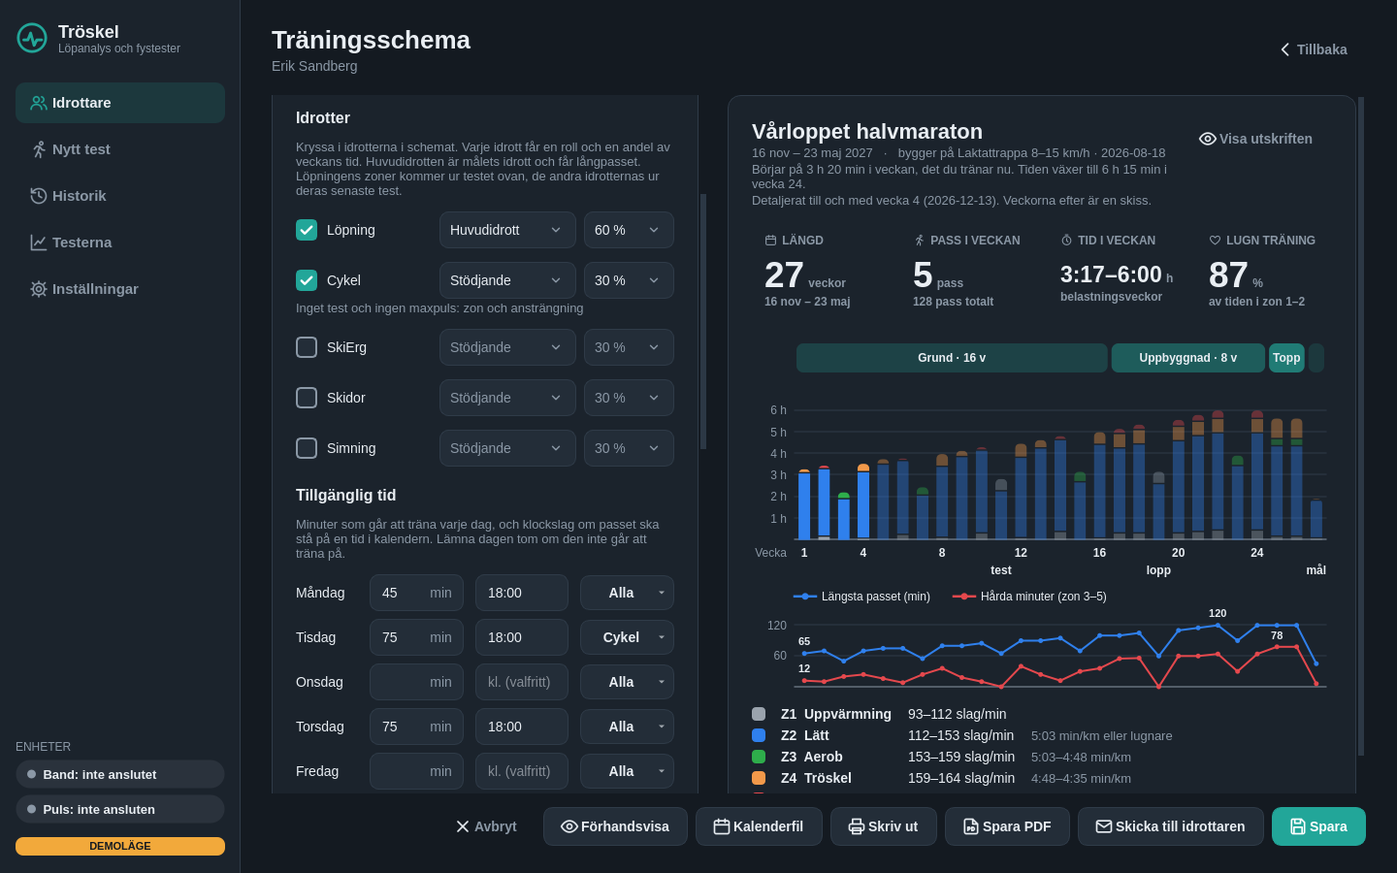
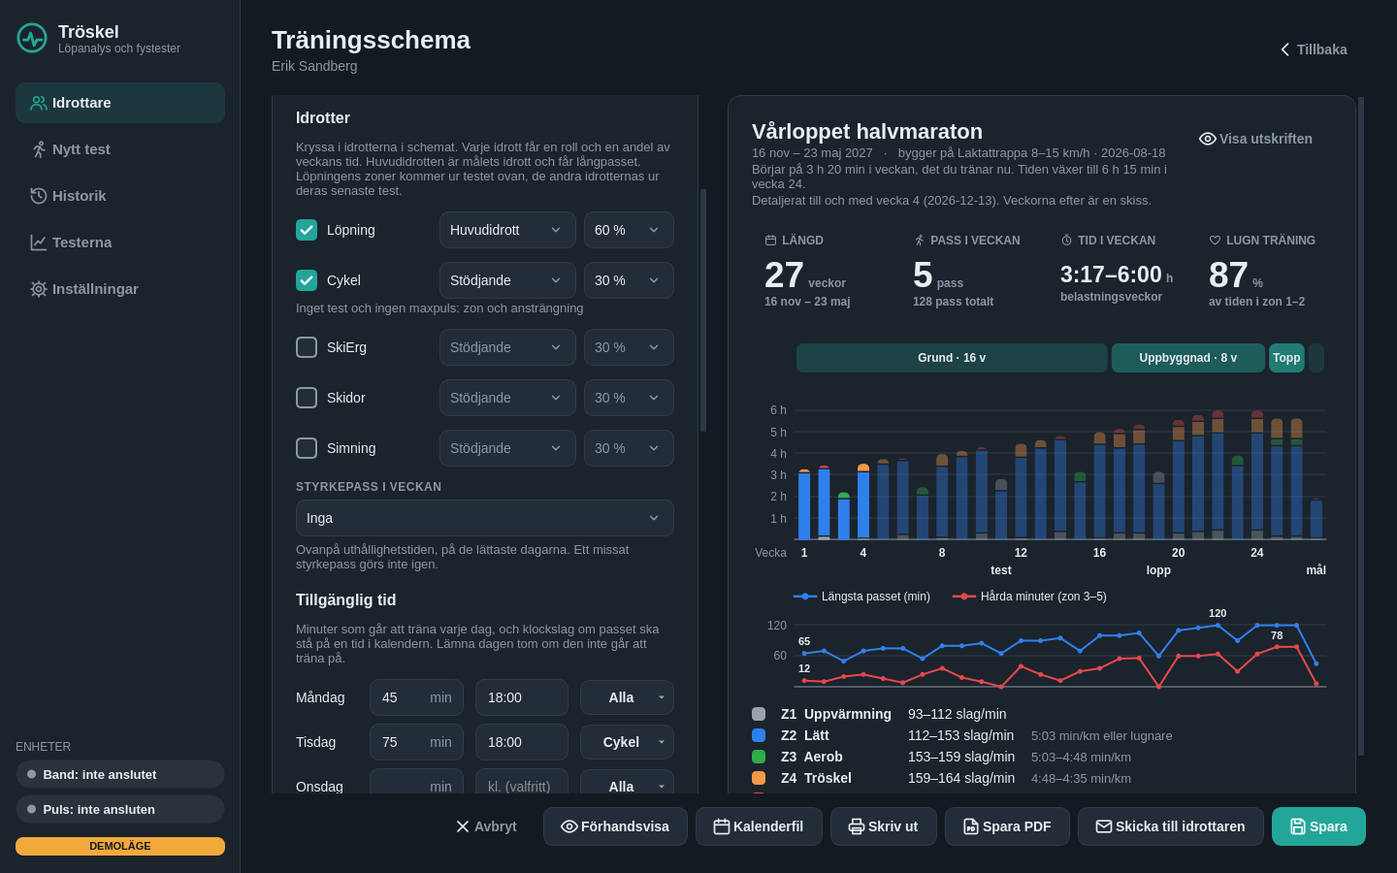
Plan: strength sessions in the form, strength and swimming in the printout, titles with the sport (#666, steps 3-4)
The form asks for the strength sessions a week (none or 1-3, PlanRequest.strength_sessions), saved with
the plan and read back. The printout takes each workout's title from Plan.title, so in a plan with
several sports or with strength every workout starts with its sport. The sports table ends with
strength and its number of sessions; strength workouts are shown without zones, with the effort, in
strength's colour. Swimming with a CSS test is listed with the test and gets a row with the time per
100 m under *Dina zoner*. The handbook, TRANINGSPLAN.md, PROV.md and the screenshots follow.

diff --git a/src/lopanalys/report/plan_builder.py b/src/lopanalys/report/plan_builder.py
@@ -21,9 +21,9 @@ from markupsafe import Markup
 from lopanalys.core.i18n import language, set_language, t
 from lopanalys.core.zone_colors import sport_color, zone_color
 from lopanalys.plan import library
-from lopanalys.plan.models import BORROWS, WEEKDAY_KEYS, ZONES, Capacity, Plan, Week
+from lopanalys.plan.models import BORROWS, STRENGTH, SWIM, WEEKDAY_KEYS, ZONES, Capacity, Plan, Week
 from lopanalys.plan.periodize import core_slots
-from lopanalys.plan.resolve import SPLIT_SPORTS, split_str, targets
+from lopanalys.plan.resolve import SPLIT_SPORTS, split_str, swim_str, targets
 from lopanalys.plan.text import duration, hours, progress_axis, volume_start, workout_lines
 
 from .builder import ASSETS, Branding, _css_str, _data_uri_image, _env, _footer_line, _safe_color, date_long
@@ -210,6 +210,8 @@ def _sport_name(sport: str) -> str:
 
 def _basis(cap: Capacity) -> str:
     """'Laktattrappa · 13 november 2026', with the marks for estimated zones; 'Inget test' without one."""
+    if cap.anchors is None and cap.css_s100:          # swimming's CSS test: a pace, no heart rate
+        return " · ".join(x for x in (cap.source, date_long(cap.tested) if cap.tested else "") if x)
     if cap.anchors is None:
         return t("plan.pdf.fact.no_test")
     basis = " · ".join(x for x in (cap.source, date_long(cap.tested) if cap.tested else "") if x) \
@@ -233,18 +235,23 @@ def _sports(plan: Plan) -> list[dict[str, Any]]:
         lent = req.own_capacity(BORROWS[r.sport]) if r.sport in BORROWS else None
         if own is None and lent is not None and lent.anchors is not None:
             basis = t("report.plan.sports.borrows", sport=_sport_name(BORROWS[r.sport]))
-        elif own is None and r.sport == "swim":
+        elif (own is None or not own.known) and r.sport == SWIM:
             basis = t("report.plan.sports.effort")
         else:
             basis = _basis(req.capacity_for(r.sport))
         out.append({"sport": r.sport, "name": _sport_name(r.sport), "color": sport_color(r.sport),
-                    "role": t(f"report.plan.role.{r.role}"), "share": round(100 * r.weight / total), "basis": basis})
+                    "role": t(f"report.plan.role.{r.role}"), "share": f"{round(100 * r.weight / total)} %",
+                    "basis": basis})
+    if req.strength_count:          # outside the shares: a number of sessions on top of the endurance time
+        out.append({"sport": STRENGTH, "name": _sport_name(STRENGTH), "color": sport_color(STRENGTH),
+                    "role": t("report.plan.sports.strength_role", n=req.strength_count), "share": "–",
+                    "basis": t("report.plan.sports.strength_basis")})
     return out
 
 
 def _sport_zones(plan: Plan) -> list[dict[str, Any]]:
     """The other sports' rows under *Dina zoner*: the sports whose test gives watt (the bike; the SkiErg
-    also the time per 500 m), zone by zone."""
+    also the time per 500 m) and swimming with a CSS test (the time per 100 m), zone by zone."""
     req = plan.request
     out = []
     for sp in req.plan_sports:
@@ -252,7 +259,7 @@ def _sport_zones(plan: Plan) -> list[dict[str, Any]]:
             continue
         cap = req.own_capacity(sp)
         zt = targets(cap, plan.zone_system, sp) if cap is not None else {}
-        if not any(z.power_text for z in zt.values()):
+        if not any(z.power_text or (sp == SWIM and z.pace_text) for z in zt.values()):
             continue
         out.append({"name": _sport_name(sp), "color": sport_color(sp),
                     "cells": [_compact(zt[z]) if z in zt else {"hr": "", "load": ""} for z in ZONES]})
@@ -274,6 +281,9 @@ def _compact(tg: Any) -> dict[str, str]:
     hr = _ends(str(tg.hr_low or ""), str(tg.hr_high or ""))
     watt = _ends(str(tg.power_low_w or ""), str(tg.power_high_w or ""))
     split = _ends(split_str(tg.power_low_w), split_str(tg.power_high_w), True) if tg.sport in SPLIT_SPORTS else ""
+    if tg.sport == SWIM:
+        swim = _ends(swim_str(tg.swim_low_s), swim_str(tg.swim_high_s), True)
+        split = f"{swim} /100 m" if swim else ""
     load = " · ".join(x for x in (f"{watt} W" if watt else "", split) if x)
     return {"hr": hr, "load": load}
 
@@ -303,7 +313,7 @@ def _context(plan: Plan, branding: Branding) -> dict[str, Any]:
 
     # ---- cover
     period = {"k": t("plan.pdf.fact.period"), "v": f"{date_long(plan.start)} – {date_long(plan.end)}"}
-    multi = len(req.plan_roles()) > 1
+    multi = req.multi_sport
     if cap.anchors is None:
         basis = t("plan.pdf.fact.no_test")
     else:
@@ -380,7 +390,7 @@ def _context(plan: Plan, branding: Branding) -> dict[str, Any]:
                     line["color"] = zone_color(ZONES.index(line["zone"])) if line["zone"] else UNZONED
                 race = " · ".join(x for x in (t("plan.goal.distance", km=fmt_num(w.goal.distance_km, 1 if w.goal.distance_km % 1 else 0))
                                               if w.goal.distance_km else "", w.goal.target) if x) if w.goal else ""
-                items.append({"title": w.title, "purpose": (race or w.purpose),
+                items.append({"title": plan.title(w), "purpose": (race or w.purpose),
                               "duration": duration(w.seconds) if w.seconds else "", "lines": lines,
                               "start": f"{w.start:%H:%M}" if w.start else "", "race": bool(w.goal),
                               "quality": w.quality, "sport": _sport_name(w.sport) if multi else "",

diff --git a/src/lopanalys/ui/views/plan.py b/src/lopanalys/ui/views/plan.py
@@ -13,7 +13,8 @@ what is saved without filling in anything; the banner offers it when they run ou
 Several sports (#666, step 4): the coach ticks the plan's sports, each with a role (main, supporting,
 maintenance) and a share of the weekly time in tens of percent, 60/30/10 by default. Running's zones come
 from the chosen test; every other sport takes its own newest test (services.sport_capacity). A weekday can
-allow some of the sports only: the button beside the day says which, *Alla* by default.
+allow some of the sports only: the button beside the day says which, *Alla* by default. Strength is a number of
+sessions a week (0-3) on top of the endurance time, placed by the engine.
 
 The form follows the athlete form: fields start empty, *Spara* is always visible below the
 scroll area, and unsaved changes are asked about before they are thrown away.
@@ -36,7 +37,7 @@ from lopanalys.core.models import Athlete
 from lopanalys.plan import RUNNING, Capacity, Goal, Plan, PlanRequest, Slot, SportRole, build_plan
 from lopanalys.plan import rolling
 from lopanalys.plan.engine import horizon_for
-from lopanalys.plan.models import BORROWS, LEVELS, PLAN_SPORTS, ROLE_SHARE, ROLES, WEEKDAY_KEYS, ZONES
+from lopanalys.plan.models import BORROWS, LEVELS, MAX_STRENGTH, PLAN_SPORTS, ROLE_SHARE, ROLES, WEEKDAY_KEYS, ZONES
 from lopanalys.plan.resolve import targets
 from lopanalys.plan.text import hours, start_line
 from lopanalys.ui import services, theme
@@ -376,6 +377,11 @@ class PlanView(QWidget):
             r.made_main.connect(self._new_main)
             self.sport_rows[sp] = r
             v.addWidget(r)
+        self.strength = QComboBox()
+        self.strength.setObjectName("strength_sessions")
+        for n in range(MAX_STRENGTH + 1):
+            self.strength.addItem(t("ui.plan.strength_none") if n == 0 else t("ui.plan.strength_n", n=n), n)
+        v.addWidget(field(t("ui.plan.strength"), self.strength, t("ui.plan.strength_hint")))
 
         v.addSpacing(6)
         v.addWidget(label(t("ui.plan.sec.time"), "SectionTitle"))
@@ -466,7 +472,7 @@ class PlanView(QWidget):
         for w in (self.recent, self.goal_name, self.goal_date.edit, self.goal_km, self.goal_target, self.weeks,
                   self.start.edit, *self.minutes, *self.clocks):
             w.textChanged.connect(self._changed)
-        for cb in (self.test, self.level):
+        for cb in (self.test, self.level, self.strength):
             cb.currentIndexChanged.connect(self._changed)
         self.mode.currentIndexChanged.connect(self._mode_changed)
 
@@ -533,7 +539,7 @@ class PlanView(QWidget):
     def _inputs(self) -> tuple:
         """Everything the plan is built from. Two equal tuples give the same plan."""
         return (self.test.currentData(), self.level.currentData(), self.recent.value(),
-                tuple(r.snapshot() for r in self.sport_rows.values()),
+                tuple(r.snapshot() for r in self.sport_rows.values()), self.strength.currentData(),
                 tuple((m.value(), c.text().strip(), d.chosen()) for m, c, d in zip(self.minutes, self.clocks,
                                                                                   self.day_sports)),
                 self.mode.currentData(), self.goal_name.text().strip(), self.goal_date.text().strip(),
@@ -676,6 +682,7 @@ class PlanView(QWidget):
             row.set(r.role if r else "support", r.share if r else 0, r is not None)
         for d in self.day_sports:
             d.set_chosen(())
+        self.strength.setCurrentIndex(max(0, self.strength.findData(req.strength_count if req else 0)))
         self._sport_basis()
         if req is None:
             self.test.setCurrentIndex(max(0, self.test.findData(session_id)) if session_id else 0)
@@ -901,7 +908,8 @@ class PlanView(QWidget):
         roles = tuple(self.sport_rows[sp].value() for sp in sports)
         return PlanRequest(a.name, start_day, tuple(slots), tuple(caps), sports, goals=tuple(goals),
                            duration_weeks=weeks, level=level, recent_weekly_minutes=int(recent) if recent else None,
-                           roles=roles if len(roles) > 1 or roles[0].sport != RUNNING else ())
+                           roles=roles if len(roles) > 1 or roles[0].sport != RUNNING else (),
+                           strength_sessions=self.strength.currentData() or 0)
 
     def _session_id(self) -> int | None:
         """The running test the plan is built on; none when running is not in the plan."""

diff --git a/tests/report/test_report_plan_sports.py b/tests/report/test_report_plan_sports.py
@@ -154,3 +154,45 @@ def test_english_sports_table(plans):
     text = _text(_cover(render_plan_html(plans["ski_main"])))
     assert "Main sport" in text and "Supporting" in text and "Maintenance" in text
     assert "Borrows the zones of SkiErg" in text
+
+
+# ---- strength and swimming (#666, step 3) in the printout
+
+
+def test_titles_start_with_the_sport_in_a_plan_with_several(plans):
+    week = render_plan_html(plans["run_bike_12"])
+    week = _text(week[week.index('<section class="week">'):])
+    assert "Löpning: " in week and "Cykel: " in week
+    one = render_plan_html(plans["half_12"])
+    assert "Löpning: " not in _text(one[one.index('<section class="week">'):])
+
+
+def test_strength_sessions_in_the_table_and_on_the_week_page():
+    plan = build_plan(c.CASES["run_strength_2"])
+    html = render_plan_html(plan)
+    cover = _text(_cover(html))
+    assert "Löpning Huvudidrott 100 %" in cover
+    assert "Styrka 2 pass i veckan – Utan zoner: upplevd ansträngning, ovanpå uthållighetstiden" in cover
+    week = plan.weeks[0]
+    strength = [w for w in week.workouts if w.strength]
+    assert len(strength) == 2
+    first = _text(html)
+    first = first[first.index("Vecka 1 "):first.index("Vecka 2 ")]
+    for w in strength:
+        assert plan.title(w) in first and plan.title(w).startswith("Styrka: ")
+    assert "Styrka" in first[first.index("Veckans tid per idrott"):]
+    assert f'<i style="background: {sport_color("strength")}">' in html
+    assert f"Belastning {round(week.load)} " in first
+
+
+def test_swimming_with_a_css_test_gives_the_time_per_100_m():
+    plan = build_plan(c.CASES["triathlon_swim"])
+    html = render_plan_html(plan)
+    cover = _text(_cover(html))
+    assert "Simning Stödjande 25 % CSS-test · 10 november 2026" in cover
+    zones = cover[cover.index("Dina zoner"):]
+    swim = zones[zones.index("Simning"):]
+    assert "/100 m" in swim and "2:10–2:02 /100 m" in swim       # Z2: CSS 1:55 + 15 s to + 7 s
+    assert "> 2:10 /100 m" in swim                                # Z1: slower than CSS + 15 s
+    week = _text(html[html.index('<section class="week">'):])
+    assert "/100 m" in week and "Simning: " in week

diff --git a/tests/ui/test_plan_sports.py b/tests/ui/test_plan_sports.py
@@ -99,6 +99,7 @@ def test_a_day_with_some_sports_only_is_saved_and_read_back(demo_window, erik):
     assert v.sport_rows["swim"].snapshot() == (True, "maintenance", 10)
     assert v.sport_rows["bike"].snapshot() == (True, "support", 30) and not v.sport_rows["ski"].on
     assert v.day_sports[1].chosen() == ("bike",) and v.day_sports[0].chosen() == ()
+    assert v.strength.currentData() == 0
     assert not v.dirty() and v.plan.request.roles == req.roles
     # a change in the sports is a change of the form
     _tick(v, "swim", False)
@@ -172,3 +173,24 @@ def test_sport_capacity_takes_the_sport_s_own_test_or_max_hr(demo_window, erik):
     run = services.sport_capacity(store, erik, RUNNING)
     newest = services.plan_tests(store, erik.id)[0]
     assert run == services.plan_capacity(store, erik, newest)
+
+
+def test_strength_sessions_are_asked_saved_and_read_back(demo_window, erik):
+    win = demo_window
+    win.open_plan(erik)
+    v = win.plan
+    _fill(v)
+    for h in v.health.values():
+        h.setChecked(True)
+    assert [v.strength.itemData(i) for i in range(v.strength.count())] == [0, 1, 2, 3]
+    assert v.strength.currentData() == 0 and v.strength.currentText() == "Inga"
+    v.strength.setCurrentIndex(v.strength.findData(2))
+    req = v.collect()
+    assert req.strength_sessions == 2 and req.roles == () and req.multi_sport
+    assert v.preview() and sum(wk.strength_sessions for wk in v.plan.detailed_weeks) > 0
+    assert v.save() and not v.dirty()
+    win._plan_back()
+    win.open_plan(erik)
+    assert v.strength.currentData() == 2 and not v.dirty()
+    v.strength.setCurrentIndex(v.strength.findData(0))
+    assert v.dirty()

diff --git a/docs/TRANINGSPLAN.md b/docs/TRANINGSPLAN.md
@@ -1,6 +1,6 @@
 # Träningsplanen
 
-*Hur programmet bygger ett träningsschema på testerna: datamodellen, planmotorn, säkerheten och utskriften. Planmotorn, utskriften, kalenderfilen, lagringen och sidan *Träningsschema* i programmet är byggda (se [Nuläget](#nuläget-vad-som-är-byggt)). Motorn fyller flera idrotter med varje idrotts egna pass, styrka och simning med ett manuellt simtest; formuläret och utskriften har idrotterna, men antalet styrkepass och simtestet finns inte i formuläret än. Målet är ett komplett test- och träningsprogram där idrottaren vet vad varje pass ska innehålla, och där träningen är skräddarsydd efter idrottarens kapacitet och mål.*
+*Hur programmet bygger ett träningsschema på testerna: datamodellen, planmotorn, säkerheten och utskriften. Planmotorn, utskriften, kalenderfilen, lagringen och sidan *Träningsschema* i programmet är byggda (se [Nuläget](#nuläget-vad-som-är-byggt)). Motorn fyller flera idrotter med varje idrotts egna pass, styrka och simning med ett manuellt simtest; formuläret och utskriften har idrotterna och antalet styrkepass, men simtestet går inte att göra i programmet än. Målet är ett komplett test- och träningsprogram där idrottaren vet vad varje pass ska innehålla, och där träningen är skräddarsydd efter idrottarens kapacitet och mål.*
 
 Allt som är märkt *(ej verifierat)* är skrivet ur minnet.
 
@@ -56,7 +56,7 @@ Kommandot gör ett schema för demolöparen (aldrig en riktig person): PDF, kale
 | Ombyggnad av resten av planen (nya pass och ny volym) efter ett omtest, sjukdom och missade pass | Inte byggt (resten av steg P4) |
 | Flera idrotter: veckotiden fördelad efter andelar, hårda dagar och långpass över idrotterna, platser med flera idrotter | Byggt (steg 1 av 4), se [Flera idrotter](#flera-idrotter) |
 | Cykelns och SkiErgens egna pass med mål i watt och tid per 500 m | Byggt (steg 2 av 4) |
-| Styrka (0–3 pass i veckan ovanpå uthållighetsveckan) och simning på ansträngning eller på ett manuellt CSS-test | Byggt i motorn och i appen (steg 3 av 4), se [Styrka](#styrka) och [Simning](#simning). Formuläret för simtestet och antalet styrkepass finns inte i programmet än |
+| Styrka (0–3 pass i veckan ovanpå uthållighetsveckan) och simning på ansträngning eller på ett manuellt CSS-test | Byggt i motorn och i appen (steg 3 av 4), se [Styrka](#styrka) och [Simning](#simning). Antalet styrkepass väljs i formuläret; formuläret för simtestet finns inte i programmet än |
 | Idrotterna i formuläret och utskriften: roll och andel, idrotterna per veckodag, en färg per idrott, idrottstabellen, watt i zonerna, veckans tid per idrott och belastningen | Byggt (steg 4 av 4), se [Utskriften](#4-utskriften). Inte provat på Windows ([PROV.md](PROV.md)) |
 | Återhämtningsblock efter ett mål, passkort | Inte byggt |
 
@@ -352,6 +352,8 @@ Utskriften byggs i rapportmotorn (`report/plan_builder.py` och mallen `plan.html
 | **Så läser du schemat** (1–2 sidor) | Blocken med skälen, zontabellen, passen som schemat använder med syfte och känsla, reglerna bakom schemat och ansvarstexten |
 | **Veckoblad** (en sida per vecka med pass) | Sju dagar: tid, passets namn och syfte, delarna med zon, puls och fart, en ruta att bocka av och rader att anteckna på. Dagens pass i tidsordning. Veckans syfte överst, och nederst veckans tid per zon och belastningen (`Week.load`) |
 
+- **Titlarna** kommer ur `Plan.title`, så i ett schema med flera idrotter eller med styrka börjar varje pass med idrotten.
+- **Styrka och simning:** styrkepassen står på veckobladet utan zon, med ansträngningen, i styrkans färg, och sist i idrottstabellen med antalet pass i veckan. Simningen med ett CSS-test får tid per 100 m i passen och en rad under *Dina zoner*. Veckans tid i veckohuvudet är uthållighetstiden; stapeln per idrott och belastningen tar med styrkan.
 - **Flera idrotter:** idrottstabellen på översikten (roll, andel som procent av andelarnas summa, och testet med datum, eller att skidor lånar SkiErgens zoner och att simning går på ansträngning) i stället för raden *Bygger på*. Under *Dina zoner* en rad per annan idrott vars test ger watt. En färg per idrott (`core.zone_colors.sport_color`, ingen av dem en zonfärg) bredvid passets namn i stället för zonfärgen, och veckans tid per idrott som en stapel på veckobladet. Resten av översikten ritas lite mindre, så att den ryms på en sida.
 - **Skissen** (sist, bara i ett rullande schema): veckorna utan pass, en rad var med block, typ av vecka, tid och antal pass. I översikten är skissveckornas staplar bleka.
 - **Kalenderfilen** (`plan/ics.py`) har en händelse per pass i veckorna med pass, med passets delar och mål i beskrivningen. En plats med klockslag ger en händelse vid den tiden, annars en heldagshändelse. Händelsens id är passets fasta nyckel, så att en ny import skriver över i stället för att dubblera.

diff --git a/docs/handbok/traningsschema/traningsschema.md b/docs/handbok/traningsschema/traningsschema.md
@@ -37,6 +37,7 @@ Har idrottaren redan ett schema visas det. Annars är formuläret tomt, och det 
 | | *Nivå* | *Nybörjare*, *Motionär* eller *Vältränad*. Styr var schemat börjar och hur många hårda pass en vecka får |
 | | *Tränar nu* | Minuter löpning i veckan i snitt de senaste 4–6 veckorna. Schemat börjar där. Tomt betyder nivåns förval (2, 3 eller 5 timmar), men aldrig mer än 70 % av den tillgängliga tiden |
 | *Idrotter* | En rad per idrott | Idrotterna i schemat, med roll och andel av veckans tid, se [Flera idrotter](#flera-idrotter) |
+| | *Styrkepass i veckan* | *Inga* eller 1–3 pass. Styrkan läggs ovanpå uthållighetstiden, på de lättaste dagarna, och ett missat styrkepass görs inte igen |
 | *Tillgänglig tid* | Minuter per veckodag | Så länge idrottaren kan träna den dagen, 20–480 minuter. En tom dag får inget pass |
 | | Klockslag | Valfritt. Passet får den tiden i kalenderfilen, annars blir det en heldagshändelse |
 | | Idrotterna den dagen | Bara med flera idrotter: *Alla* eller de idrotter som går den dagen, till exempel bara cykel en dag utan löpband |
@@ -54,7 +55,7 @@ Under *Idrotter* finns löpning, cykel, SkiErg, skidor och simning. Löpning är
 - **Roll:** *Huvudidrott* (målets idrott, som får långpasset och testet), *Stödjande* eller *Underhåll* (högst ett lugnt pass i veckan). Det finns en huvudidrott: väljer du en ny blir den förra stödjande.
 - **Andel:** hur stor del av veckans tid idrotten får, i tiotal procent. Rollen fyller i 60, 30 eller 10 %. Andelarna räknas mot varandra, så 60 och 30 ger två tredjedelar och en tredjedel.
 
-Under varje idrott utom löpning står vad zonerna bygger på: idrottens senaste laktat-, maxpuls- eller zontest, annars maxpulsen i idrotten (uppskattade zoner), annars bara zon och ansträngning. Skidor lånar SkiErgens zoner, och simning går på upplevd ansträngning eftersom Tröskel inte har något simtest. Med flera idrotter får varje veckodag en knapp för idrotterna den dagen, där *Alla* är förvalt.
+Under varje idrott utom löpning står vad zonerna bygger på: idrottens senaste laktat-, maxpuls- eller zontest, annars maxpulsen i idrotten (uppskattade zoner), annars bara zon och ansträngning. Skidor lånar SkiErgens zoner, och simning går på upplevd ansträngning: simtestet (CSS) går inte att göra i programmet än. Med flera idrotter får varje veckodag en knapp för idrotterna den dagen, där *Alla* är förvalt.
 
 ![Formuläret med löpning som huvudidrott och cykel som stödjande idrott, och tisdagen bara för cykel](images/idrotter.png)
 
@@ -88,10 +89,10 @@ Schemat börjar på det idrottaren tränar nu och växer mot den tillgängliga t
 
 Saknas något i formuläret står det i rött under översikten, till exempel *Välj nivå*. Ändrar du formuläret efter en förhandsvisning säger en gul rad att översikten inte visar ändringarna än. *Visa utskriften* öppnar hela utskriften: översikten, läsanvisningen, ett blad per vecka med pass och sist skissen över veckorna efter. Veckobladet har dagens pass i tidsordning och veckans belastning längst ned (minuter × zon × idrott, för att jämföra veckorna).
 
-Med flera idrotter har utskriften också:
+Med flera idrotter, eller med styrkepass, börjar varje pass med idrotten (*Löpning: lugnt pass*), och utskriften har också:
 
-- **en tabell över idrotterna** på första sidan: roll, andel av tiden och testet zonerna bygger på, med datum,
-- **en rad per idrott med watt under *Dina zoner***: cykelns watt, och SkiErgens watt och tid per 500 m, zon för zon,
+- **en tabell över idrotterna** på första sidan: roll, andel av tiden och testet zonerna bygger på, med datum. Styrkan står sist med antalet pass i veckan,
+- **en rad per idrott med watt eller tempo under *Dina zoner***: cykelns watt, SkiErgens watt och tid per 500 m och, med ett simtest, simningens tid per 100 m, zon för zon. Styrkepassen har ingen zon, bara ansträngningen,
 - **en färg per idrott** bredvid passets namn på veckobladet. Färgerna skiljer sig från zonernas,
 - **veckans tid per idrott** som en stapel längst ned på veckobladet.
 

diff --git a/docs/PROV.md b/docs/PROV.md
@@ -193,7 +193,7 @@ Analysen är byggd och provad mot syntetiska cyklister och stakare, där sanning
 | Riktiga bilder | Löpteknikrapport från en riktig GoPro-film | Stillbilderna skarpa i utskrift, ringarna syns, bildtexterna stämmer | |
 | Träningsschemat | Sidan *Träningsschema* på gymdatorn: fyll i, förhandsvisa, spara som PDF och skriv ut | Förstasidan ryms på en sida, varje vecka har ett eget blad utan avhuggna rader, zonfärgerna syns | |
 | Kalenderfilen | Spara *Kalenderfil* från sidan *Träningsschema* och öppna den i en iPhone och en Android-telefon | Passen hamnar på rätt dag och klockslag, med å, ä och ö rätt i beskrivningen. En ny import dubblerar inget | |
-| Träningsschemat med flera idrotter | Sidan *Träningsschema* på gymdatorn: kryssa i cykel och SkiErg, välj roller och andelar, begränsa en dag till cykel, förhandsvisa, spara, öppna igen och spara som PDF | Raden *Idrotter* och knappen per dag ryms i formuläret, allt läses tillbaka, förstasidan med idrottstabellen och watten under *Dina zoner* ryms på en sida och idrottsfärgerna syns i utskriften | |
+| Träningsschemat med flera idrotter | Sidan *Träningsschema* på gymdatorn: kryssa i cykel och SkiErg, välj roller och andelar och två styrkepass, begränsa en dag till cykel, förhandsvisa, spara, öppna igen och spara som PDF | Raden *Idrotter* och knappen per dag ryms i formuläret, allt läses tillbaka, förstasidan med idrottstabellen och watten under *Dina zoner* ryms på en sida och idrottsfärgerna syns i utskriften | |
 | Schemat med e-post | *Skicka till idrottaren* på sidan *Träningsschema* till en egen inkorg, och öppna bilagorna i en iPhone och en Android-telefon | Mejlet kommer fram (inte i skräpposten) med PDF:en och kalenderfilen. Kalenderfilen går att öppna ur mejlet med anvisningen i texten | |
 | Om testerna | Sidan *Testerna*: skriv ut *Om testerna* och spara som PDF, för *Löpning*, *Cykel* och *SkiErg* | Varje sport får plats på en A4, texten går att läsa på papper | |
 
